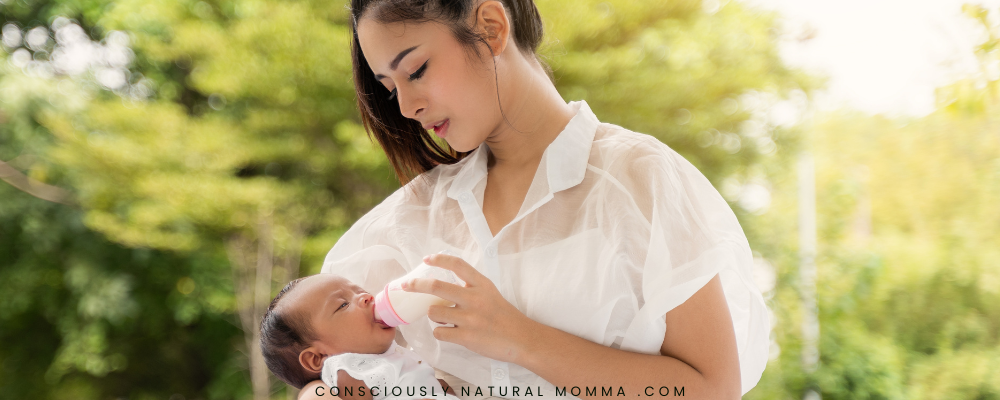
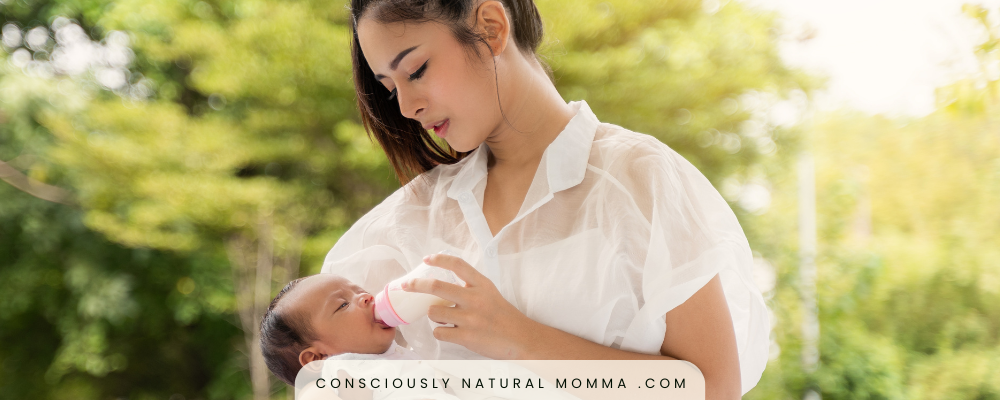
Designed about page

Changed region(s): [[0.279, 0.9, 0.713, 1.0]]

diff --git a/about/index.html b/about/index.html
@@ -14,8 +14,8 @@
  <meta property="og:description" content="Empower Your Motherhood Journey, Discover a Natural Approach to Parenting.">
  <meta property="og:type" content="website">
  <meta property="og:url" content="http://consciouslynaturalmomma.com/about">
- <meta property="og:image" content="https://consciouslynaturalmomma.com/img/about-image.png" >
- <meta property="og:image:secure_url" content="https://secure.consciouslynaturalmomma.com/img/about-image.png" >
+ <meta property="og:image" content="https://consciouslynaturalmomma.com/img/post-photos/16.png" >
+ <meta property="og:image:secure_url" content="https://secure.consciouslynaturalmomma.com/img/post-photos/16.png" >
  <meta property="og:image:type" content="image/png" >
  <meta property="og:image:width" content="1200" >
  <meta property="og:image:height" content="630" >
@@ -119,64 +119,65 @@
     <div class="parent-container">
           
       <div class="child-1">
+        <h1>Who is Consciously Natural Momma?</h1>
 
         <figure> <!--post photo-->
-          <img class="blog-entry-photo" src="../img/post-photo.png" alt="blog-entry-photo">
+          <img class="blog-entry-photo" src="../img/post-photos/16.png" alt="about-consciously-natural-momma">
         </figure>
-        <article> <!--disclaimer-->
-          *This post may contain affiliate links. If you make a purchase through a link, I may earn a small comission (at zero extra cost to you). You can read my policies and disclosures for more info.* 
-        </article>
-                
-          <div class="date-category">
-            <h4>January 1st. 2024 | Post Category</h4>
-          </div>
-         
-          <h1>Post Title</h1>
-          <h2>Subheading</h2>
-          <p>Lorem ipsum dolor sit amet consectetur adipisicing elit. Reiciendis consequuntur perferendis dolores nemo architecto accusantium? Illum harum accusamus odio sapiente quis commodi natus similique corporis dolore nostrum temporibus qui aperiam, ab placeat ipsum. Fugit iure quaerat quidem atque delectus! Voluptatem reiciendis repudiandae aliquid, maxime rerum ratione eius sint, illum dolorem fuga consectetur voluptates repellendus optio, consequatur eos a placeat ducimus quidem temporibus accusamus repellat amet? Quibusdam deserunt reprehenderit vel? Iste, sint magnam. Totam at, officiis facere saepe accusantium reprehenderit molestiae eius placeat architecto sapiente nisi, recusandae ut aut quod inventore nostrum iste minima quas iure? Sint necessitatibus quae soluta quas?
-          
-        <h2>Subheading</h2>
-         <p>Lorem ipsum dolor sit amet consectetur adipisicing elit. Reiciendis consequuntur perferendis dolores nemo architecto accusantium? Illum harum accusamus odio sapiente quis commodi natus similique corporis dolore nostrum temporibus qui aperiam, ab placeat ipsum. Fugit iure quaerat quidem atque delectus! Voluptatem reiciendis repudiandae aliquid, maxime rerum ratione eius sint, illum dolorem fuga consectetur voluptates repellendus optio, consequatur eos a placeat ducimus quidem temporibus accusamus repellat amet? Quibusdam deserunt reprehenderit vel? Iste, sint magnam. Totam at, officiis facere saepe accusantium reprehenderit molestiae eius placeat architecto sapiente nisi, recusandae ut aut quod inventore nostrum iste minima quas iure? Sint necessitatibus quae soluta quas?
-    
-        <h2>Subheading</h2>
-        <p>Lorem ipsum dolor sit amet consectetur adipisicing elit. Reiciendis consequuntur perferendis dolores nemo architecto accusantium? Illum harum accusamus odio sapiente quis commodi natus similique corporis dolore nostrum temporibus qui aperiam, ab placeat ipsum. Fugit iure quaerat quidem atque delectus! Voluptatem reiciendis repudiandae aliquid, maxime rerum ratione eius sint, illum dolorem fuga consectetur voluptates repellendus optio, consequatur eos a placeat ducimus quidem temporibus accusamus repellat amet? Quibusdam deserunt reprehenderit vel? Iste, sint magnam. Totam at, officiis facere saepe accusantium reprehenderit molestiae eius placeat architecto sapiente nisi, recusandae ut aut quod inventore nostrum iste minima quas iure? Sint necessitatibus quae soluta quas?        </p>
+        <div class="about-page"><!--parent-->  
+          <div>
+            <h2><strong>Hey, I'm Shannon!</strong></h2>
+            <p><em>Author & Owner of <a href="../book/index.html"><strong> Consciously Natural Momma</strong></a>, Web Developer & Mother.</em></p>
+            <br>
+            <p>Here to enthusiatically teach like-minded moms and mothers to be about natural parenting practices! From conception and beyond.</p>
+            <p>As a new mom I was a bit nervous. So I scoured the web and books for information reguarding how to do this whole motherhood thing. And I wanted to do it as modernly natural as possible. With conscious intention on my part.</p>
+            <p>I was totally hyped to have a natural pregnancy. I was determined to have a med free, home water birth, I wanted to try hynobirthing. Completely hellbent on raising my baby on the boobie (nursing) with cloth diapers, doing elimination communication, using minimalism to create a calm environment, co-sleeping and practicing gentle and attatchment parenting.</p>
+            <p>Anything *Crunchy Momma* you can think of, I was here for it!<em> (Although, I don't call myself crunchy.)</em></p>
+            <!--cta-->
+            <p>✨Psst, learn about the full book here:<a href="../book/index.html"><strong> "Consciously Natural Momma".✨</strong></a></p>
+            <!--end cta-->
+            <h2>The Problem?</h2>
+            <p>I was piecing together all this information from random sources I gathered all over the place. This lifestyle needed to flow as well. I also didn't have any peers who understood me and what I wanted for my baby. Doctors were telling me I couldn't have the birth I wanted. Dispite being a completely healthy first time mother.</p>
+            <p>I couldn't shake knowing in my heart that this was <em>meant</em> for me!</p>
+            <p><strong>Then it happened.</strong></p>
+            <p>With all the knowledge I gained & confidently keeping my determinaton, everything I had dreamed of, became my reality.</p>
+
+            <p><strong>✧</strong> So, as I navigated motherhood, with my stubborn personality, I decided I'd have to put everything I'd learned into one place for other like-minded moms. Possibly like you &#128521. </p>
+            <!--cta-->
+            <p><em>✨It all started with the book "Consciously Natural Momma" which you can find more info about<a href="../book/index.html"><strong> here.</strong></a></em>✨</p>
+            <br>
+            <!--end cta-->
+
+        </div>
+            <div class="ap-one"><!--Child-1-->
+
+              <h2>So, Welcome. You're in the right place if...</h2>
+                <ul>
+                  <li>✧ You're a naturally minded momma or mother to be</li>
+                  <li>✧ You need some insight on how to achieve natural parenting practices</li>
+                  <li>✧ You'd like a motherhood lifestyle that flows, naturally with confidence!</li>
+                  <li>✧ You're ready to parent with conscious intention instead just "winging it".</li>
+                  <li>✧ You're curious & want to maybe veer off the beaten path of mainstream parenthood tactics</li>
+                </ul>
+        </div>
         
-        <h2>Subheading</h2>
-        <p>Lorem ipsum dolor sit amet consectetur adipisicing elit. Reiciendis consequuntur perferendis dolores nemo architecto accusantium? Illum harum accusamus odio sapiente quis commodi natus similique corporis dolore nostrum temporibus qui aperiam, ab placeat ipsum. Fugit iure quaerat quidem atque delectus! Voluptatem reiciendis repudiandae aliquid, maxime rerum ratione eius sint, illum dolorem fuga consectetur voluptates repellendus optio, consequatur eos a placeat ducimus quidem temporibus accusamus repellat amet? Quibusdam deserunt reprehenderit vel? Iste, sint magnam. Totam at, officiis facere saepe accusantium reprehenderit molestiae eius placeat architecto sapiente nisi, recusandae ut aut quod inventore nostrum iste minima quas iure? Sint necessitatibus quae soluta quas?
-
-          <h2>Subheading</h2>
-          <p>Lorem ipsum dolor sit amet consectetur adipisicing elit. Reiciendis consequuntur perferendis dolores nemo architecto accusantium? Illum harum accusamus odio sapiente quis commodi natus similique corporis dolore nostrum temporibus qui aperiam, ab placeat ipsum. Fugit iure quaerat quidem atque delectus! Voluptatem reiciendis repudiandae aliquid, maxime rerum ratione eius sint, illum dolorem fuga consectetur voluptates repellendus optio, consequatur eos a placeat ducimus quidem temporibus accusamus repellat amet? Quibusdam deserunt reprehenderit vel? Iste, sint magnam. Totam at, officiis facere saepe accusantium reprehenderit molestiae eius placeat architecto sapiente nisi, recusandae ut aut quod inventore nostrum iste minima quas iure? Sint necessitatibus quae soluta quas?
-  
-       <!--signup-->
-
-<div class="footer-signup">
-<div class="ml-embedded" data-form="pbWUtN"></div> <!--Free Chapter Form-->
-
+      <div>    
+        <h2>Take a Look Around</h2>
+        <p>If you're sound like me or are the kind of Momma who'd love to have a natural pregnancy, birth and would like to navigate motherhood with conscious intention then I have all the tips for you! </p>
+        <p>At Consciously Natural Momma you'll learn conception tips, natural pregnancy methods, finding a provider, healthy diet and lifestyle habits for pregnancy and postpartum.</p>
+        <p>You'll also gain knowledge on how to have a minimalist home for ease, preparing for your baby, med free birth practices, hypnobirthing, and postpartum care.</p>
+        <p>And hey, if it all doesn't reasonate for you then that's also okay! Something here will be of use to you I'm sure of it!</p>
+        <p><em>✨Go ahead and also check out the full book "Consciously Natural Momma" which you can find more info about<a href="../book/index.html"><strong> here.</strong></a></em>✨</p>
+      </div> 
+      <h2>
+       If you're curious and would like to know more then,</h2>
+          <div class="ml-embedded" data-form="pbWUtN"></div> <!--Free Chapter Form-->
+      </div> 
 </div>
-<!--end signup-->   
-
-
-      </div>
-
-  
-
-
 
 <!--Sidebar-->
 
 <div class="sidebar"> <!--Child 2-->
-  <figure>
-    <a href="http://consciouslynaturalmomma.com/about" target="_blank"><img src="../img/bio-photo-1.png" alt="Shannon-bio"></a>
-  </figure>
-  <div class="sidebar-text"> <!--child 2-->
-    <h3> Hey, I'm Shannon!</h3>
-    <p> 
-     I teach naturally-minded moms how to navigate motherhood with a consciouly natural lifestyle.<br>
-    <strong>With Confidence!</strong><br>
-    I'm minimalist, vegan, witchy & may even curse a little.<br>
-    Go ahead & read around if that sounds great to you!<br>
-   </p>
-   </div>
    
    <!--Sidebar-->
    <div class="sidebar-buttons">

diff --git a/css/main.css b/css/main.css
@@ -152,6 +152,7 @@ p {
   text-align: left;
 }
 
+
 strong {
   font-weight: bold;
 }
@@ -576,6 +577,40 @@ footer .copyright p{
   flex-flow: row wrap;
   font-weight: bolder;
 }
+
+/******* About *******/
+
+.about-page {
+  display: flex;
+  justify-content: center;
+  flex-flow: row wrap;
+  margin-bottom: 2px;
+}
+
+.about-page h2 {
+  padding-bottom: 0%;
+}
+
+.about-page .ap-one {
+  background-color: #000d00;
+  width: 90%;
+  padding: 3%;  
+}
+
+.about-page .ap-one h2 {
+ color:#fdfaf0;
+ text-align: center;
+}
+
+.about-page ul li {
+  width: 100%;
+  margin: 10px 0;
+  font-size: 1em;
+  font-weight: 600;
+  color: #ef9791;
+  
+}
+
 
 /**************** BOOK PAGE - MOBILE ***************/
 

diff --git a/blog-post-template/index.html b/blog-post-template/index.html
@@ -192,9 +192,9 @@
             
             [Harder sell for your offer]
             
-            <p><strong>
+            <h2><strong>
             What I’m offering will change your life!
-            </strong></p>
+            </strong></h2>
             
             <!--signup-->
 
